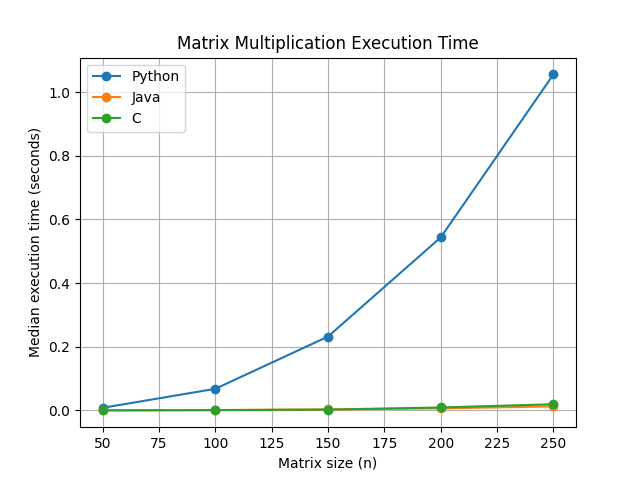
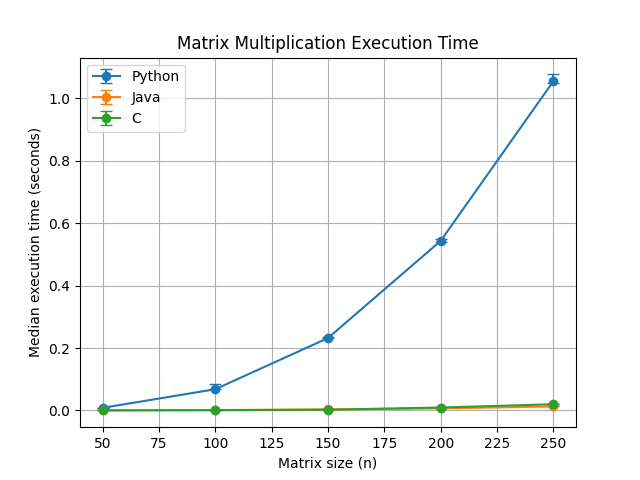
Add variability in plots and fix C csv

diff --git a/analysis/plots.py b/analysis/plots.py
@@ -14,6 +14,14 @@ python_medians = []
 java_medians = []
 c_medians = []
 
+python_lower = []
+python_upper = []
+java_lower = []
+java_upper = []
+c_lower = []
+c_upper = []
+
+
 
 for size in sizes:
 
@@ -33,12 +41,56 @@ for size in sizes:
     java_medians.append(java_times.median())
     c_medians.append(c_times.median())
 
+    python_lower.append(
+        python_times.median() - python_times.quantile(0.25)
+    )
+    python_upper.append(
+        python_times.quantile(0.75) - python_times.median()
+    )
+
+    java_lower.append(
+        java_times.median() - java_times.quantile(0.25)
+    )
+    java_upper.append(
+        java_times.quantile(0.75) - java_times.median()
+    )
+
+    c_lower.append(
+        c_times.median() - c_times.quantile(0.25)
+    )
+    c_upper.append(
+        c_times.quantile(0.75) - c_times.median()
+    )
+
 
 plt.figure()
 
-plt.plot(sizes, python_medians, marker="o", label="Python")
-plt.plot(sizes, java_medians, marker="o", label="Java")
-plt.plot(sizes, c_medians, marker="o", label="C")
+plt.errorbar(
+    sizes,
+    python_medians,
+    yerr=[python_lower, python_upper],
+    marker="o",
+    capsize=4,
+    label="Python"
+)
+
+plt.errorbar(
+    sizes,
+    java_medians,
+    yerr=[java_lower, java_upper],
+    marker="o",
+    capsize=4,
+    label="Java"
+)
+
+plt.errorbar(
+    sizes,
+    c_medians,
+    yerr=[c_lower, c_upper],
+    marker="o",
+    capsize=4,
+    label="C"
+)
 
 plt.xlabel("Matrix size (n)")
 plt.ylabel("Median execution time (seconds)")
@@ -53,9 +105,32 @@ plt.show()
 
 plt.figure()
 
-plt.plot(sizes, python_medians, marker="o", label="Python")
-plt.plot(sizes, java_medians, marker="o", label="Java")
-plt.plot(sizes, c_medians, marker="o", label="C")
+plt.errorbar(
+    sizes,
+    python_medians,
+    yerr=[python_lower, python_upper],
+    marker="o",
+    capsize=4,
+    label="Python"
+)
+
+plt.errorbar(
+    sizes,
+    java_medians,
+    yerr=[java_lower, java_upper],
+    marker="o",
+    capsize=4,
+    label="Java"
+)
+
+plt.errorbar(
+    sizes,
+    c_medians,
+    yerr=[c_lower, c_upper],
+    marker="o",
+    capsize=4,
+    label="C"
+)
 
 plt.yscale("log")
 

diff --git a/source/c/benchmark.c b/source/c/benchmark.c
@@ -85,7 +85,7 @@ int main() {
             }
 
             printf(
-                "Size: %d | Repetition: %d | Time: %f seconds | Checksum: %lld\n",
+                "Size: %d | Repetition: %d | Time: %.9f seconds | Checksum: %lld\n",
                 n,
                 repetition,
                 elapsed_time,
@@ -94,7 +94,7 @@ int main() {
 
             fprintf(
                 file,
-                "C,%d,%d,%f,%lld\n",
+                "C,%d,%d,%.9f,%lld\n",
                 n,
                 repetition,
                 elapsed_time,
